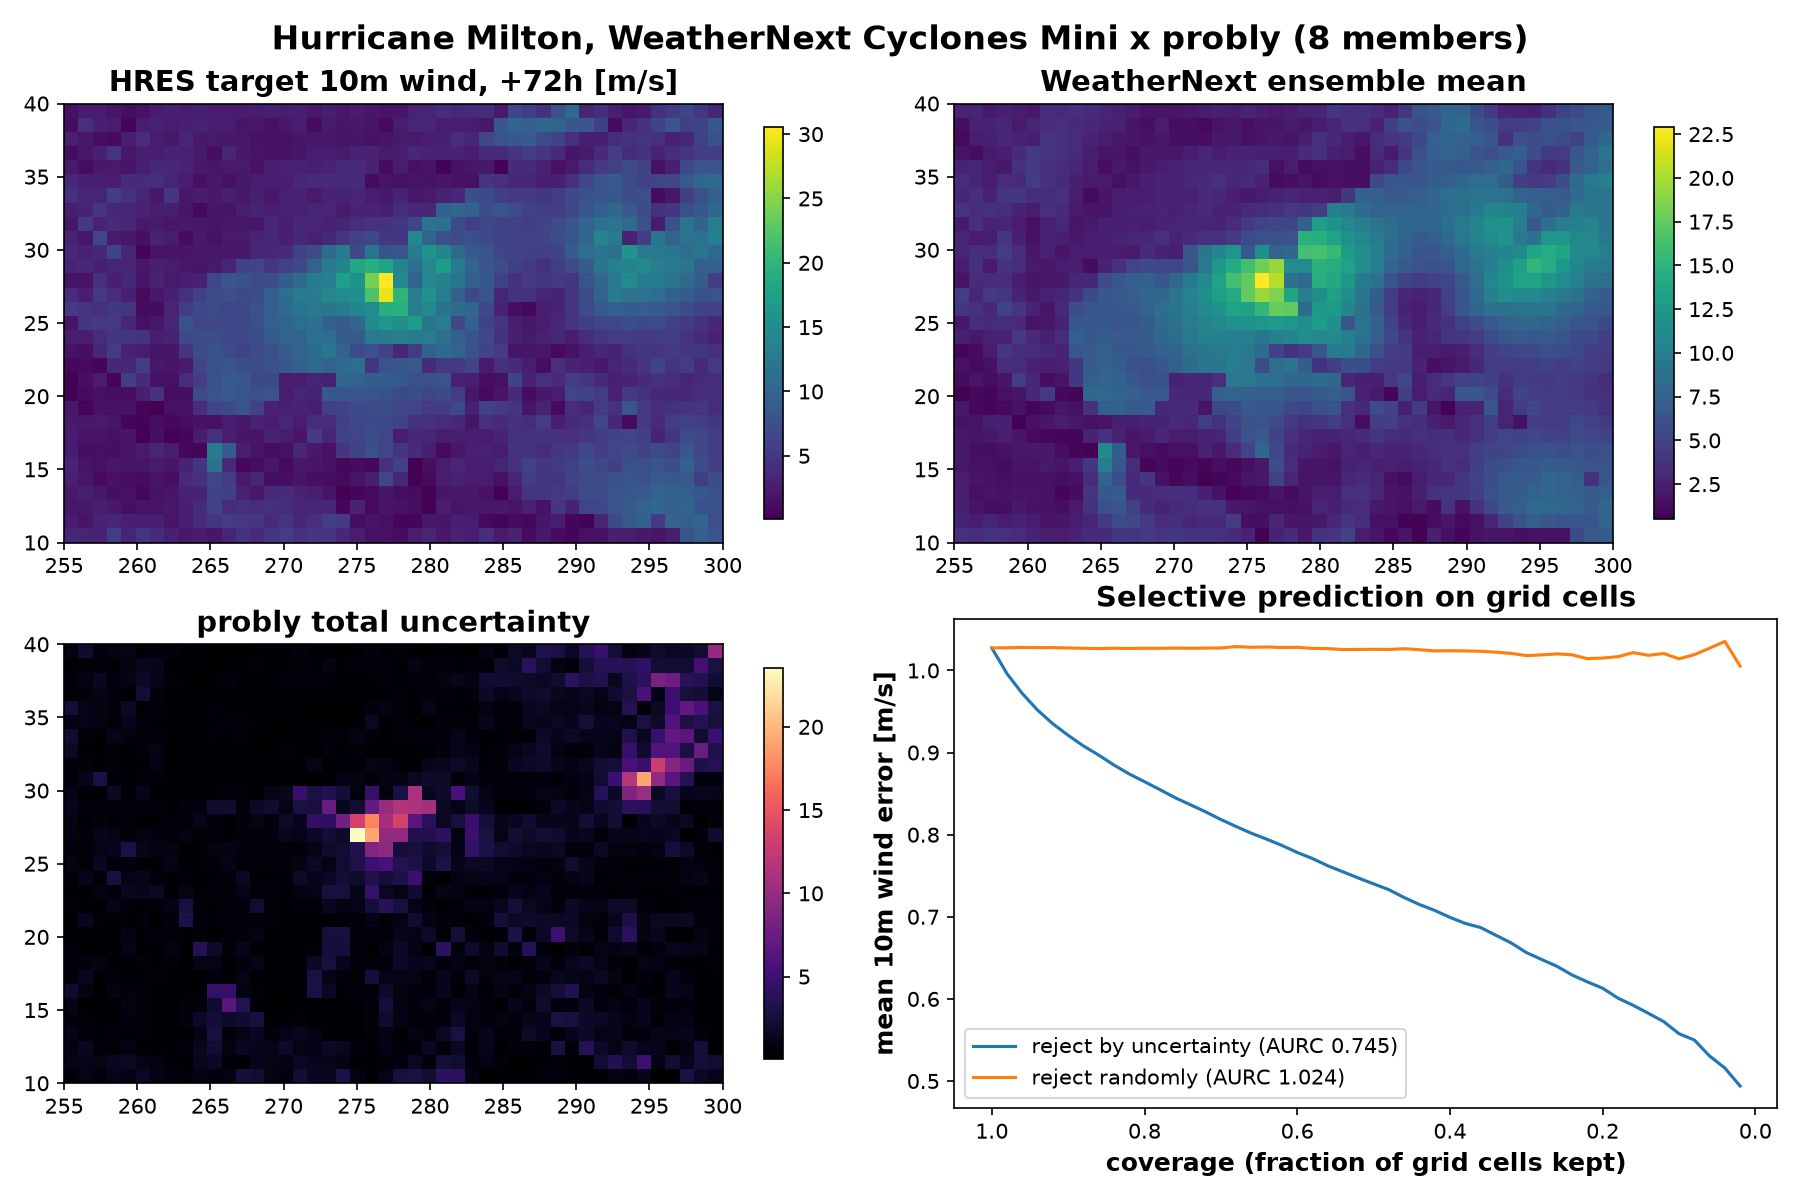
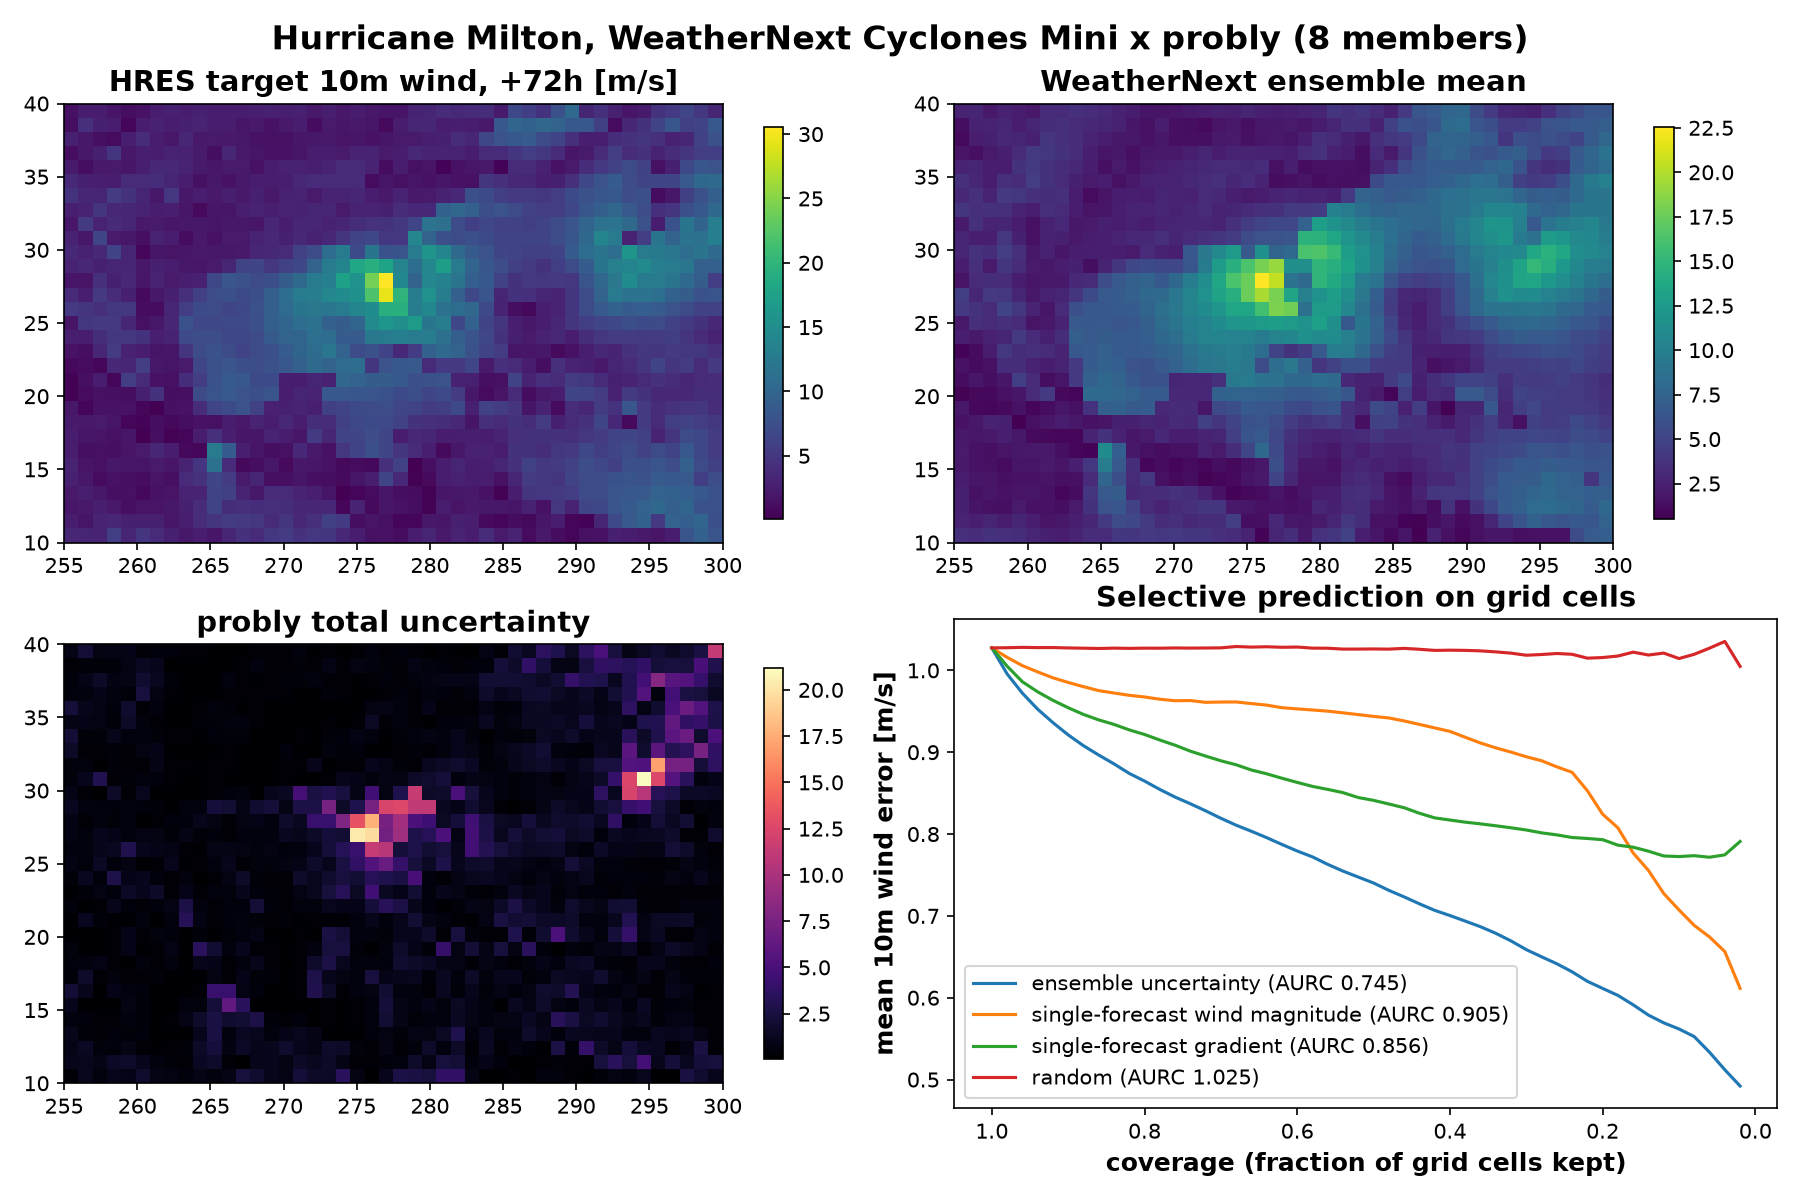
Add single-forecast baselines to weathernext selective prediction

diff --git a/examples/integrations/weathernext_uncertainty.py b/examples/integrations/weathernext_uncertainty.py
@@ -149,17 +149,28 @@ target_wind = np.sqrt(
 # --------------------------------------------------------------
 #
 # Using the quantified uncertainty as rejection criterion, discarding the most
-# uncertain cells lowers the wind forecast error much faster than random
-# rejection - the single deterministic forecast offers no such signal.
+# uncertain cells lowers the wind forecast error. To make the comparison fair,
+# a single forecast also provides heuristic uncertainty signals: strong winds
+# and sharp gradients are harder to predict, so the wind magnitude and the
+# gradient magnitude of one ensemble member serve as single-model baselines.
+# All criteria reject cells of the same ensemble-mean forecast, isolating the
+# value of the uncertainty signal itself.
 
 t = wind_members.shape[1] - 1  # last lead time
 errors = np.abs(wind_mean[t] - target_wind[t]).ravel()
-criterion = wind_uncertainty[t].ravel()
 
-aurc, risks = selective_prediction(criterion, errors, n_bins=50)
+single_forecast = wind_members[0, t]  # what a single model run provides
+gradient = np.hypot(*np.gradient(single_forecast))
 rng = np.random.default_rng(0)
-aurc_random, risks_random = selective_prediction(rng.permutation(len(errors)).astype(float), errors, n_bins=50)
-print(f"AURC uncertainty-based: {aurc:.4f}  vs random rejection: {aurc_random:.4f}")
+criteria = {
+    "ensemble uncertainty": wind_uncertainty[t].ravel(),
+    "single-forecast wind magnitude": single_forecast.ravel(),
+    "single-forecast gradient": gradient.ravel(),
+    "random": rng.permutation(len(errors)).astype(float),
+}
+curves = {name: selective_prediction(criterion, errors, n_bins=50) for name, criterion in criteria.items()}
+for name, (aurc, _) in curves.items():
+    print(f"AURC {name}: {aurc:.4f}")
 
 # %%
 # Visualize Hurricane Milton forecast uncertainty
@@ -187,9 +198,9 @@ for ax, (data, title, cmap) in zip(axes.flat, panels):
     ax.set_title(title)
     fig.colorbar(im, ax=ax, shrink=0.8)
 
-coverage = 1 - np.arange(len(risks)) / len(risks)
-axes[1, 1].plot(coverage, risks, label=f"reject by uncertainty (AURC {aurc:.3f})")
-axes[1, 1].plot(coverage, risks_random, label=f"reject randomly (AURC {aurc_random:.3f})")
+for name, (aurc, risks) in curves.items():
+    coverage = 1 - np.arange(len(risks)) / len(risks)
+    axes[1, 1].plot(coverage, risks, label=f"{name} (AURC {aurc:.3f})")
 axes[1, 1].set_xlabel("coverage (fraction of grid cells kept)")
 axes[1, 1].set_ylabel("mean 10m wind error [m/s]")
 axes[1, 1].set_title("Selective prediction on grid cells")
